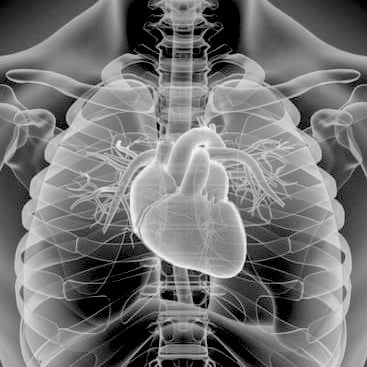
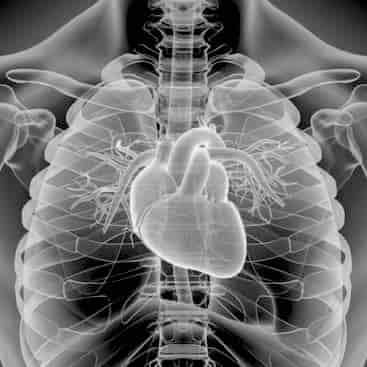
Added latest project and minified pictures

diff --git a/main.html b/main.html
@@ -1,7 +1,7 @@
 <!DOCTYPE html>
 <html class="no-js" lang="en">
 <head>
-    <!-- Global site tag (gtag.js) - Google Analytics -->
+    <!-- Global site tag (gtag.js) -->
 	<script async src="https://www.googletagmanager.com/gtag/js?id=UA-164006454-1"></script>
 	<script>
 	  window.dataLayer = window.dataLayer || [];
@@ -264,17 +264,51 @@
 
       </div> <!-- End Work -->
 
-   </section> <!-- Resume Section End-->   
-
-   <!-- Portfolio Section
+   </section> <!-- Resume Section End-->  
+   
+      <!-- Highlight Section
    ================================================== -->
+
    <section id="portfolio" style="display : block">
 
       <div class="row">
 
          <div class="twelve columns collapsed">
 
-            <h1>Check Out Some of My Works.</h1>
+            <h1>Latest project</h1>
+
+            <!-- portfolio-wrapper -->
+            <div id="portfolio-wrapper" class="bgrid-full s-bgrid-full cf">
+
+          	   <div class="columns portfolio-item">
+                  <div class="item-wrap">
+
+                     <a href="#modal-00" title="">
+                        <img alt="Luca Bontempi, Face Recognition" src="images/pixpad.png">
+                        <div class="overlay">
+                           <div class="portfolio-item-meta">
+          					      <h5>Pixpad Editor</h5>
+                               <p>Algorithms <b>|</b> Architecture</p>
+          					   </div>
+                        </div>
+                        <div class="link-icon"><i class="icon-plus"></i></div>
+                     </a>
+
+                  </div>
+          		</div> <!-- item end -->
+
+            </div> <!-- wrapper end -->
+
+         </div> <!-- twelve columns end -->  
+
+   <!-- Portfolio Section
+   ================================================== -->
+
+      <div class="row">
+
+         <div class="twelve columns collapsed">
+
+            <h1>Check Out Some of My Other Works</h1>
 
             <!-- portfolio-wrapper -->
             <div id="portfolio-wrapper" class="bgrid-quarters s-bgrid-thirds cf">
@@ -355,6 +389,35 @@
          <!-- Modal Popup
 	      --------------------------------------------------------------- -->
 
+         <div id="modal-00" class="popup-modal mfp-hide">
+
+		      <img alt="Luca Bontempi, Face Recognition" class="scale-with-grid" src="images/pixpad.png" alt="" />
+
+		      <div class="description-box">
+               <h4>Vanilla Javascript Image Quantizer and Editor</h4>
+               <a href="https://pixpad.github.io/playground/">
+                  <p style="text-decoration: underline;">Try it here!</p>
+               </a>
+			      <p>The project is a Javascript adaptation of a processing application that I previously wrote using Python Jinja and Flask. 
+                  This serverless implementation was a good playground to experient with frontend technologies and to introduce new algorithms
+                  into the workflow.
+               </p>
+               <p>   
+                  The editor features a Quantizer, taking care of the reduction of the colors of the uploaded image to a user-defined palette.
+                  A Flood Fill recursive algorithm allows to select different brush sizes in the editor and a "paint bucket" function. Finally, 
+                  to overcome the limitation of intermittent registration of the cursor location while in drawing mode, a custom implementaiton of Dijkstra's algorithm was used.
+                  This allowed to find the distance travelled by the cursor between subsequent mouse location events and draw a continuous path between them.
+               </p>
+               <span class="categories"><i class="fa fa-tag"></i>Algorithms, Visualization, Frontend Architecture</span>
+		      </div>
+
+            <div class="link-box">
+               <a href="https://github.com/nvios/pixpad" target="_blank">Details</a>
+		         <a class="popup-modal-dismiss">Close</a>
+            </div>
+
+	      </div><!-- modal-01 End -->
+         
          <div id="modal-01" class="popup-modal mfp-hide">
 
 		      <img alt="Luca Bontempi, Face Recognition" class="scale-with-grid" src="images/portfolio/modals/m-opencv.jpg" alt="" />

diff --git a/css/default.css b/css/default.css
@@ -689,6 +689,8 @@ input[type="checkbox"] { display: inline; }
 .bgrid-quarters [class*="column"] { width: 25%; }
 .bgrid-thirds [class*="column"]   { width: 33.33333%; }
 .bgrid-halves [class*="column"]   { width: 50%; }
+.bgrid-full [class*="column"]     { width: 100%; text-align: center; }
+
 
 [class*="bgrid"] [class*="column"] + [class*="column"]:last-child { float: left; }
 
@@ -708,6 +710,7 @@ properly.
    .s-bgrid-quarters [class*="column"] { width: 25%; }
    .s-bgrid-thirds [class*="column"]   { width: 33.33333%; }
    .s-bgrid-halves [class*="column"]   { width: 50%; }
+   .s-bgrid-full [class*="column"]     { width: 100%; }
 
    /* block grids left clearing */
    .first { clear: none; }
@@ -750,11 +753,14 @@ properly.
    .row .offset-11   { margin-left: 0%; }
 }
 
+   .item-wrap { text-align: center; }
+
 /* mobile narrow
 --------------------------------------------------------------- */
 @media only screen and (max-width: 460px) {
 
    .row { width: auto; }
+   .item-wrap { text-align: center; }
 
 }
 
@@ -763,6 +769,7 @@ properly.
 @media screen and (min-width: 1200px) {
 
    .wide .row { max-width: 1180px; }
+   .item-wrap { text-align: center; }
 
 }
 

diff --git a/css/layout.css b/css/layout.css
@@ -432,7 +432,7 @@ ul#nav li.current a { color: #F06000; }
 /* Portfolio Content */
 #portfolio-wrapper .columns { margin-bottom: 36px; }
 .portfolio-item .item-wrap {
-   background: #fff;
+   background: #ebeeee;
    overflow: hidden;
    position: relative;
 
